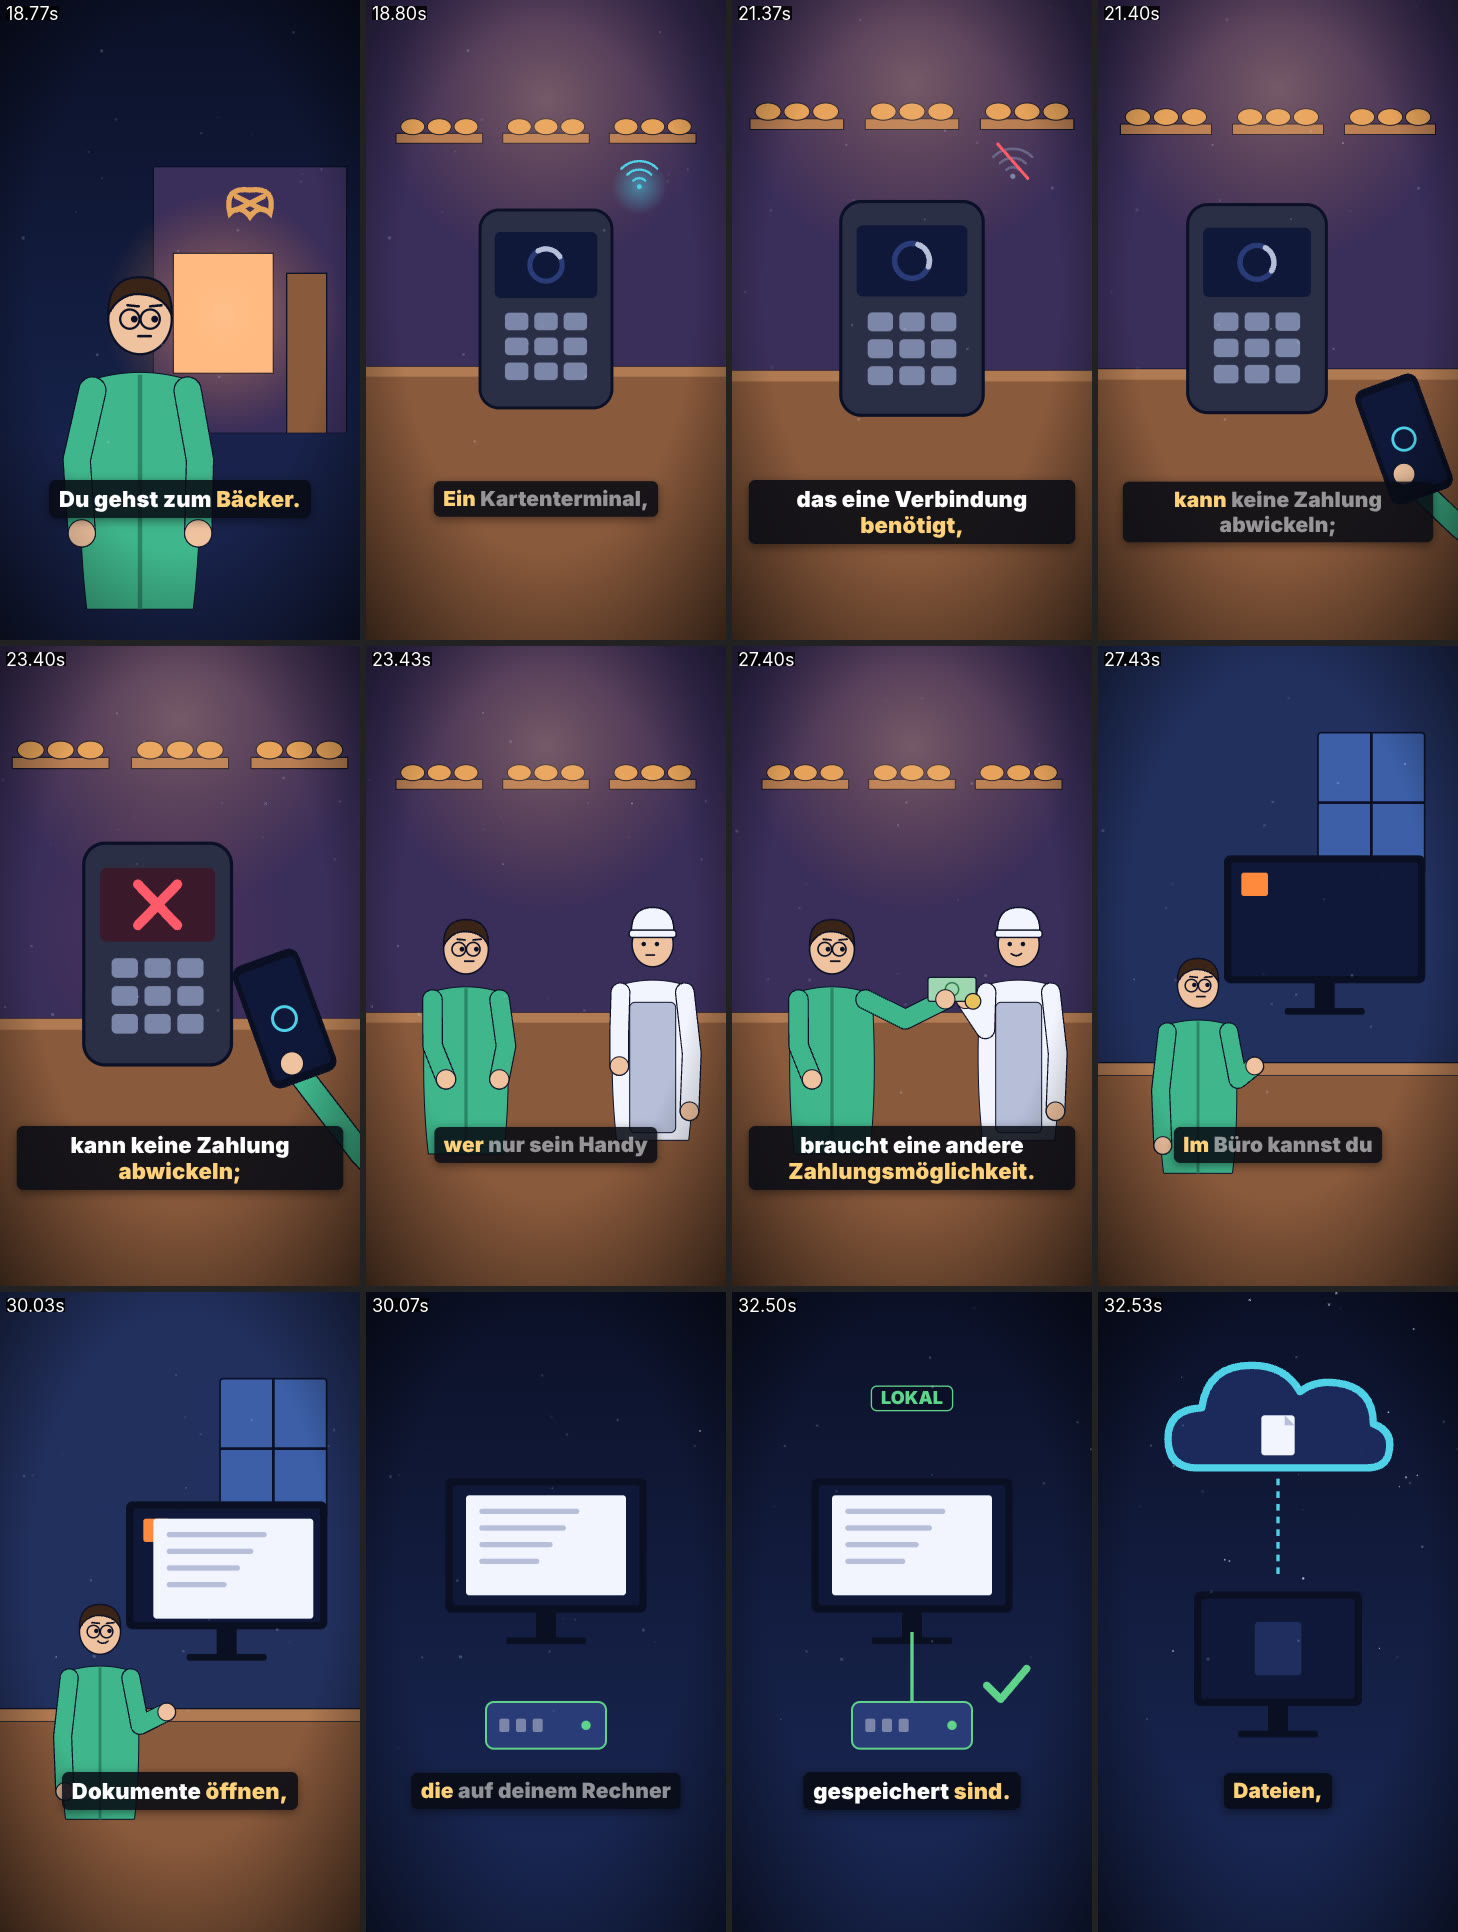
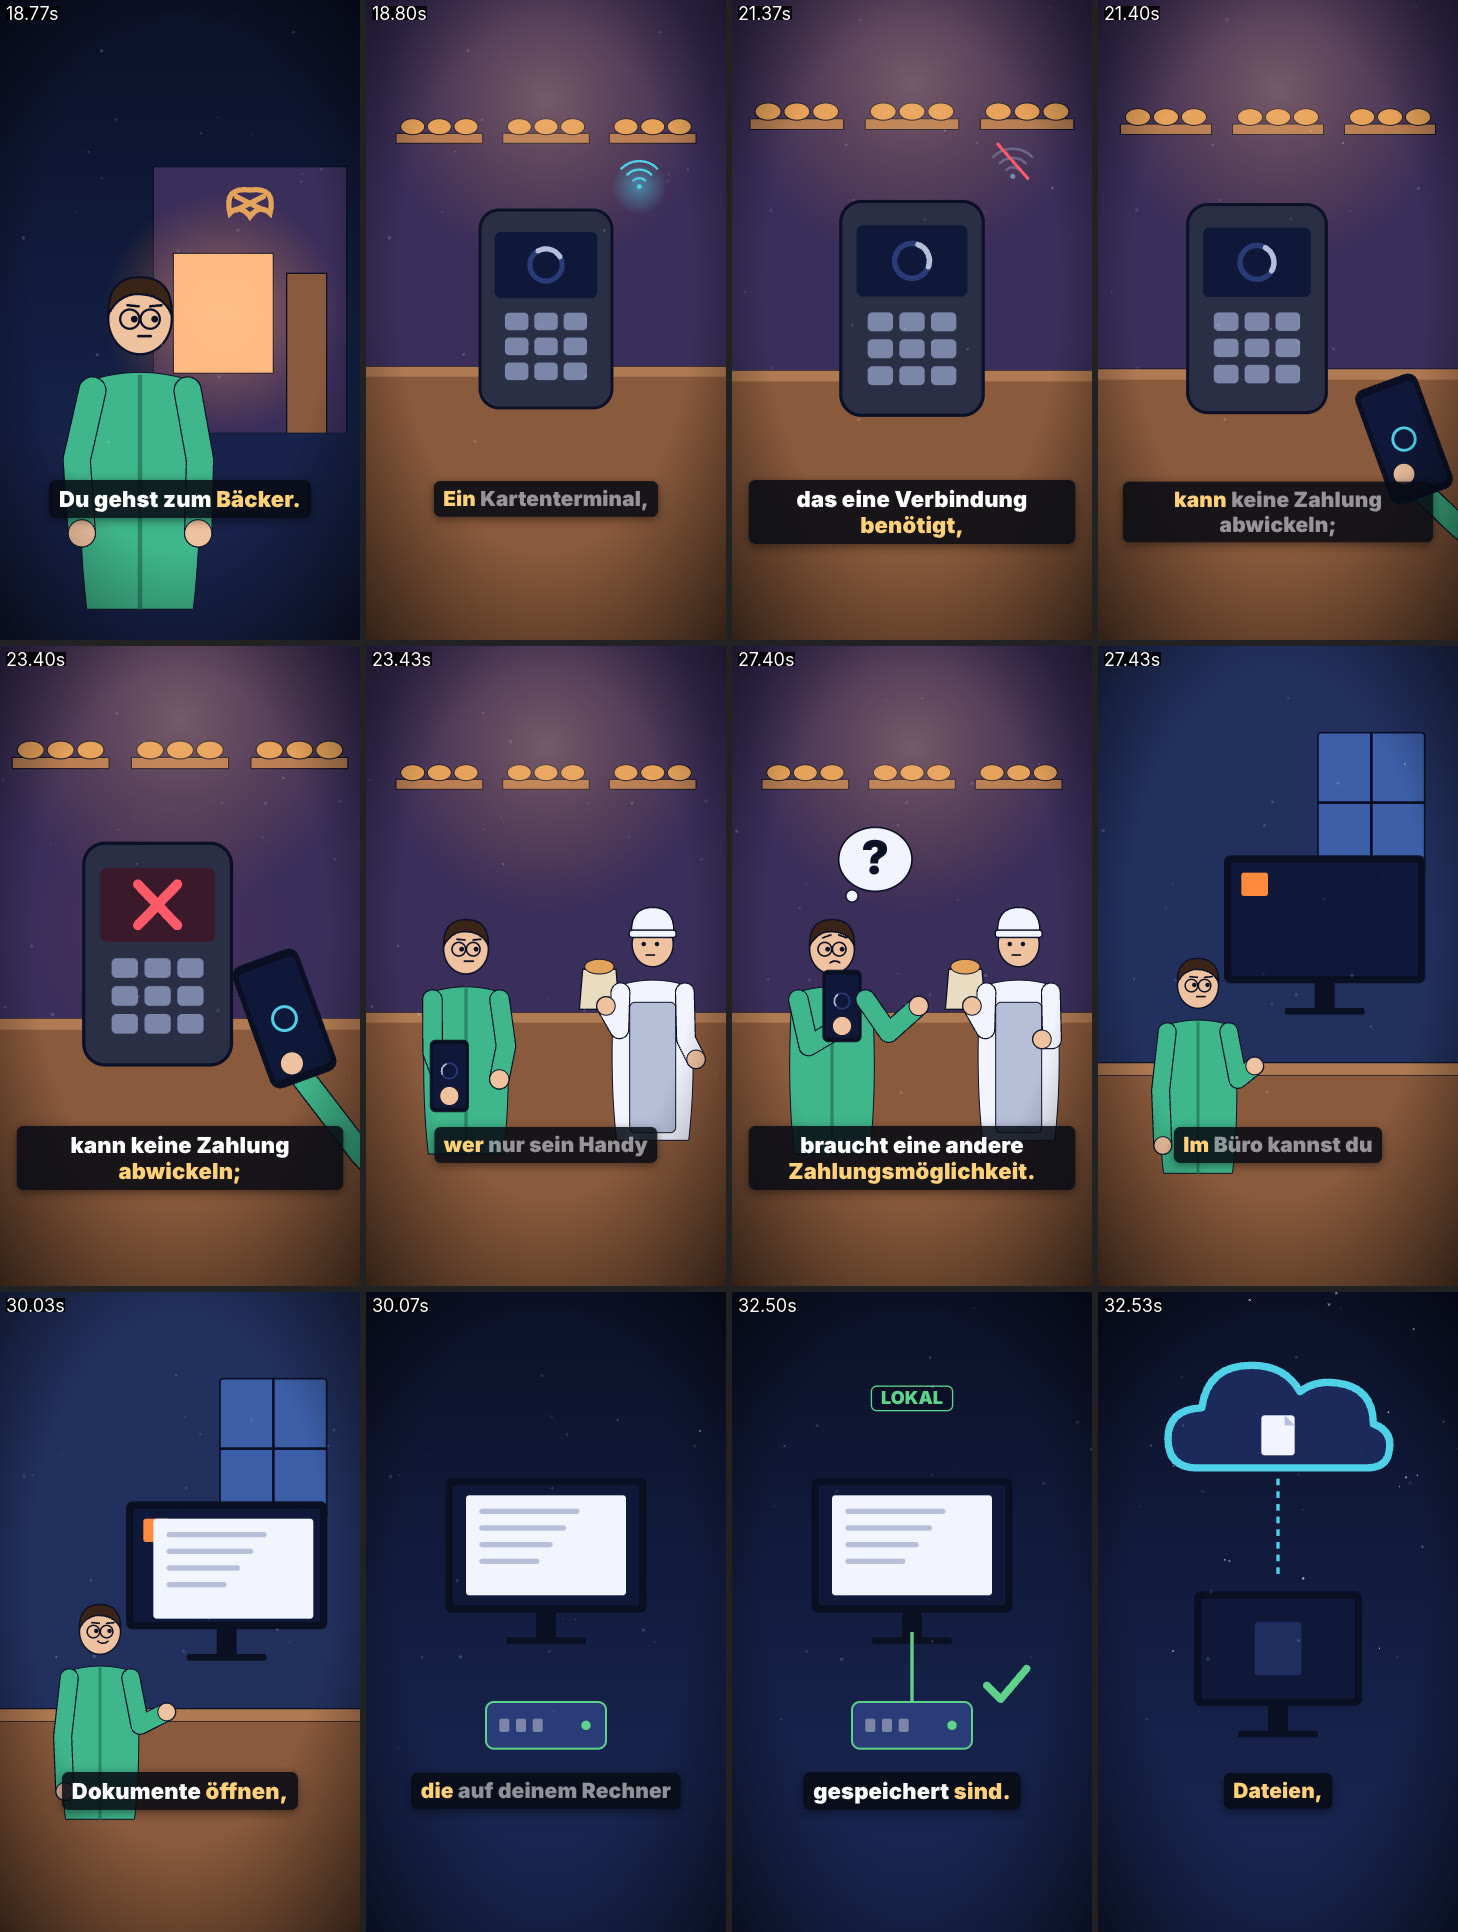
[v75] scene design (Claude Code nightly): revise scenes 10 and 20 (V75-01, V75-02)
Claude-Session: https://claude.ai/code/session_01BnQDwobhXVFtb2sWxaJGKm

diff --git a/src/videos/v75/shots/020.js b/src/videos/v75/shots/020.js
@@ -1,13 +1,20 @@
-// 55.72–59.8: but not every device stops at the same time ("nicht jedes Gerät" 56.34–56.88, "gleichzeitig" 57.7) — a row of devices: router and laptop go grey, fridge, lamp and torch stay lit
-import { K, DEFS, BG, glow, tick, crossOut, cam, prog, eio, f1 } from './lib.js';
+// 55.72–59.8: but not every device stops at the same time ("nicht jedes Gerät" 56.34–56.88, "gleichzeitig" 57.7) — a 2×2 row of devices that all keep power:
+// router lights and laptop screen (local document) stay on, only their Internet link (wifi arcs / cloud badge) goes grey and is struck; fridge and lamp glow with a tick
+import { K, DEFS, BG, glow, tick, crossOut, wifi, cloud, label, cam, prog, eio, f1 } from './lib.js';
 export default function renderShot(t) {
-  const a = eio(prog(t, 56.3, 56.9)), b = eio(prog(t, 57.6, 58.2));
-  const dev = [
-    [270, 600, `<rect x="-110" y="-40" width="220" height="80" rx="16" fill="${K.ind3}" stroke="${K.ink}" stroke-width="4"/><path d="M -60 -40 V -110 M 60 -40 V -110" stroke="${K.greyL}" stroke-width="10"/>`, 0],
-    [810, 600, `<rect x="-130" y="-90" width="260" height="160" rx="10" fill="#0A0F22" stroke="${K.ink}" stroke-width="4"/><rect x="-150" y="70" width="300" height="24" rx="8" fill="${K.grey}"/>`, 0],
-    [270, 1080, `<rect x="-90" y="-160" width="180" height="320" rx="20" fill="${K.white}" stroke="${K.ink}" stroke-width="4"/><path d="M -90 -40 H 90 M 60 -130 V -70 M 60 -10 V 60" stroke="${K.ink}" stroke-width="6"/>`, 1],
-    [810, 1080, `<path d="M -70 -60 L 70 -60 L 40 -140 L -40 -140 Z" fill="${K.sun}" stroke="${K.ink}" stroke-width="4"/><path d="M 0 -60 V 120 M -60 120 H 60" stroke="${K.greyL}" stroke-width="12"/>`, 1],
-  ];
-  const s = dev.map(([x, y, svg, stays], i) => `${stays ? glow(x, y, 240, a, 'iWarm') : ''}<g transform="translate(${x} ${y})" opacity="${f1(stays ? 1 : 1 - .5 * a)}">${svg}</g>${stays ? tick(x + 130, y - 140, 1.1, b) : crossOut(x, y - 20, 150, b)}`).join('');
-  return `${DEFS}${BG()}${cam(s, 1 + .04 * eio(prog(t, 55.72, 59.8)), 540, 850)}`;
+  const a = eio(prog(t, 56.3, 56.9)), b = eio(prog(t, 57.6, 58.2)), off = b > .5 ? 0 : 1;
+  const led = (x, c) => `<circle cx="${x}" cy="0" r="9" fill="${c}"/>`;
+  const router = `<rect x="-110" y="-40" width="220" height="80" rx="16" fill="${K.ind3}" stroke="${K.ink}" stroke-width="4"/><path d="M -60 -40 V -100 M 60 -40 V -100" stroke="${K.greyL}" stroke-width="10" stroke-linecap="round"/>${led(-60, K.green)}${led(-25, K.green)}${led(10, off ? K.data : K.sun)}`;
+  const doc = `<rect x="-70" y="-78" width="140" height="140" rx="6" fill="${K.white}"/>${[0, 1, 2, 3, 4].map(i => `<rect x="-52" y="${-58 + i * 24}" width="${i % 2 ? 80 : 104}" height="10" rx="5" fill="${K.grey}"/>`).join('')}`;
+  const laptop = `<rect x="-130" y="-90" width="260" height="160" rx="10" fill="${K.screen}" stroke="${K.ink}" stroke-width="4"/><rect x="-124" y="-84" width="248" height="148" rx="6" fill="#26407E"/>${doc}<rect x="-150" y="70" width="300" height="24" rx="8" fill="${K.grey}"/>`;
+  const fridge = `<rect x="-90" y="-160" width="180" height="320" rx="20" fill="${K.white}" stroke="${K.ink}" stroke-width="4"/><path d="M -90 -40 H 90 M 60 -130 V -70 M 60 -10 V 60" stroke="${K.ink}" stroke-width="6"/>`;
+  const lamp = `<path d="M -70 -60 L 70 -60 L 40 -140 L -40 -140 Z" fill="${K.sun}" stroke="${K.ink}" stroke-width="4"/><path d="M 0 -60 V 120 M -60 120 H 60" stroke="${K.greyL}" stroke-width="12"/>`;
+  // devices: everything keeps its power glow; online links only on the top row
+  const top = `${glow(270, 600, 200, .35 + .35 * a, 'iGlow')}<g transform="translate(270 600)">${router}</g>${wifi(270, 470, .55, off, {})}
+    ${glow(810, 600, 220, .35 + .35 * a, 'iGlow')}<g transform="translate(810 600)">${laptop}</g><g opacity="${f1(off ? 1 : .55)}">${cloud(930, 440, .45, off ? K.data : K.grey)}</g>${crossOut(930, 432, 62, b)}
+    ${label(270, 800, 'ONLINE', b, K.red, 40)}${label(810, 800, 'ONLINE', b, K.red, 40)}`;
+  const bottom = [[270, 1080, fridge], [810, 1080, lamp]].map(([x, y, svg]) => `${glow(x, y, 240, a, 'iWarm')}<g transform="translate(${x} ${y})">${svg}</g>${tick(x + 130, y - 140, 1.1, b)}`).join('');
+  // strike line through the ONLINE labels so the label itself reads "online lost", not "device dead"
+  const strike = b > .01 ? [270, 810].map(x => `<path d="M ${x - 110} 788 L ${f1(x - 110 + 220 * b)} 788" stroke="${K.red}" stroke-width="8" stroke-linecap="round"/>`).join('') : '';
+  return `${DEFS}${BG()}${cam(`${top}${strike}${bottom}`, 1 + .04 * eio(prog(t, 55.72, 59.8)), 540, 850)}`;
 }

diff --git a/src/videos/v75/shots/010.js b/src/videos/v75/shots/010.js
@@ -1,12 +1,18 @@
-// 23.42–27.42: with only your phone you need another way to pay ("Handy" 24.06, "andere Zahlungsmöglichkeit" 25.94–26.26) — you look at the phone, then hand cash to the baker
-import { K, DEFS, bust, phone, TX, cam, prog, eio, lerp, f1 } from './lib.js';
+// 23.42–27.42: with only your phone you need another way to pay ("Handy" 24.06, "andere Zahlungsmöglichkeit" 25.94–26.26) — you hold up the phone (still spinning), then shrug with an empty hand; the baker keeps the bread and waits: payment still open (cash only appears later, shot 23)
+import { K, DEFS, bust, phone, spinner, crossOut, TX, cam, prog, eio, lerp, f1, cl } from './lib.js';
 import { bakery } from './sets.js';
 export const cash = (x, y, s = 1, rot = 0) => `<g transform="translate(${f1(x)} ${f1(y)}) rotate(${f1(rot)}) scale(${f1(s)})"><rect x="-80" y="-40" width="160" height="80" rx="8" fill="#9FD8B0" stroke="#0B1026" stroke-width="4"/><circle r="22" fill="none" stroke="#2F7A4A" stroke-width="5"/></g><g transform="translate(${f1(x + 70 * s)} ${f1(y + 40 * s)}) scale(${f1(s)})"><circle r="26" fill="#E8C25A" stroke="#0B1026" stroke-width="4"/></g>`;
 export default function renderShot(t) {
-  const look = eio(prog(t, 23.5, 24.2)) * (1 - eio(prog(t, 25.3, 25.8))), give = eio(prog(t, 25.6, 26.4));
-  const du = bust('du', 300, 1020, 1.2, { look: look > .5 ? .3 : 1, lookY: look > .5 ? .8 : 0, brow: look > .5 ? .8 : .2, mouth: look > .5 ? 'down' : 'flat',
-    aL: [[200, 1200], [lerp(240, 300, look), lerp(1300, 1120, look)]], heldL: look > .05 ? phone(lerp(240, 300, look), lerp(1300, 1080, look), .45, `<g transform="rotate(${f1(t * 300 % 360)})"><circle r="30" fill="none" stroke="#B6BED8" stroke-width="10" stroke-dasharray="60 130"/></g>`) : '',
-    aR: [[lerp(420, 520, give), lerp(1200, 1120, give)], [lerp(400, 640, give), lerp(1300, 1060, give)]], heldR: give > .05 ? cash(lerp(400, 660, give), lerp(1290, 1030, give), .9) : '' });
-  const baker = bust('baker', 860, 1000, 1.15, { look: -.8, brow: 0, mouth: give > .8 ? 'smile' : 'flat', aL: [[760, 1150], [lerp(760, 700, give), lerp(1260, 1060, give)]] });
-  return `${DEFS}${cam(`${bakery()}${baker}${du}`, 1, 540, 1000)}`;
+  // lift the phone on "Handy" (24.06), shrug with the empty right hand on "andere" (25.94), "?" bubble on "Zahlungsmöglichkeit" (26.26)
+  const lift = eio(prog(t, 23.6, 24.3)), shrug = eio(prog(t, 25.7, 26.2)), q = eio(prog(t, 26.1, 26.6));
+  const px = lerp(250, 330, lift), py = lerp(1290, 1080, lift);
+  const scr = `${spinner(0, -30, 46, t)}<g transform="translate(0 110)">${crossOut(0, 0, 40, eio(prog(t, 24.4, 24.9)))}</g>`;
+  const du = bust('du', 300, 1020, 1.2, { look: lift > .5 && shrug < .5 ? .3 : .9, lookY: lift > .5 && shrug < .5 ? .8 : 0, brow: shrug > .5 ? .9 : lift > .5 ? .7 : .2, mouth: shrug > .5 ? 'down' : 'flat',
+    aL: [[lerp(200, 230, lift), lerp(1220, 1200, lift)], [px, py + 60]], heldL: phone(px, py, .45, scr),
+    aR: [[lerp(420, 470, shrug), lerp(1200, 1160, shrug)], [lerp(400, 560, shrug), lerp(1300, 1080, shrug)]] });
+  // baker: one hand on the bread bag on the counter, the other palm-up, waiting
+  const bag = `<g transform="translate(700 1090)"><path d="M -60 0 L -50 -120 L 50 -120 L 60 0 Z" fill="#E9DCC0" stroke="${K.ink}" stroke-width="4"/><ellipse cx="0" cy="-128" rx="44" ry="22" fill="${K.bread}" stroke="${K.ink}" stroke-width="3"/></g>`;
+  const baker = bust('baker', 860, 1000, 1.15, { look: -.8, brow: shrug > .5 ? .6 : 0, mouth: 'flat', aL: [[760, 1150], [720, 1080]], aR: [[960, 1180], [lerp(990, 930, shrug), lerp(1240, 1180, shrug)]] });
+  const bub = q > .01 ? `<g opacity="${f1(cl(q))}" transform="translate(430 640) scale(${f1(.8 + .2 * q)})"><ellipse rx="110" ry="96" fill="${K.white}" stroke="${K.ink}" stroke-width="5"/><circle cx="-70" cy="110" r="18" fill="${K.white}" stroke="${K.ink}" stroke-width="4"/>${TX('?', 0, 44, 140, K.ink)}</g>` : '';
+  return `${DEFS}${cam(`${bakery()}${bag}${baker}${du}${bub}`, 1, 540, 1000)}`;
 }

diff --git a/prompts/lessons.md b/prompts/lessons.md
@@ -19,3 +19,4 @@ This file records past mistakes and their prevention. Do not duplicate the full 
 - Record only inspections actually performed. Technical checks do not judge beauty or motion. Use the existing per-scene review; the finished video is reviewed by ChatGPT, whose fix requests arrive as owner comments on the issue.
 - Asynchronous loading (fonts, data) takes its `delayRender()` handle inside a component, never at module load: a module-level handle is orphaned when Remotion re-initialises and times out mid-render although the load finished.
 - Walking on stairs: each foot lands on a tread and the body drops after it; a figure translated diagonally reads as sliding. Dates/places go into a scene with action, not a row of separate cards, and on-screen text never says more than the voice (v63).
+- A shot never resolves a problem with an object or option the narration has just ruled out ("only a phone" → no cash in hand); show the open problem and keep the solution for the shot that names it. When contrasting "offline" with "still works", cross out only the connection/online service, never the whole device that still runs (v75).
